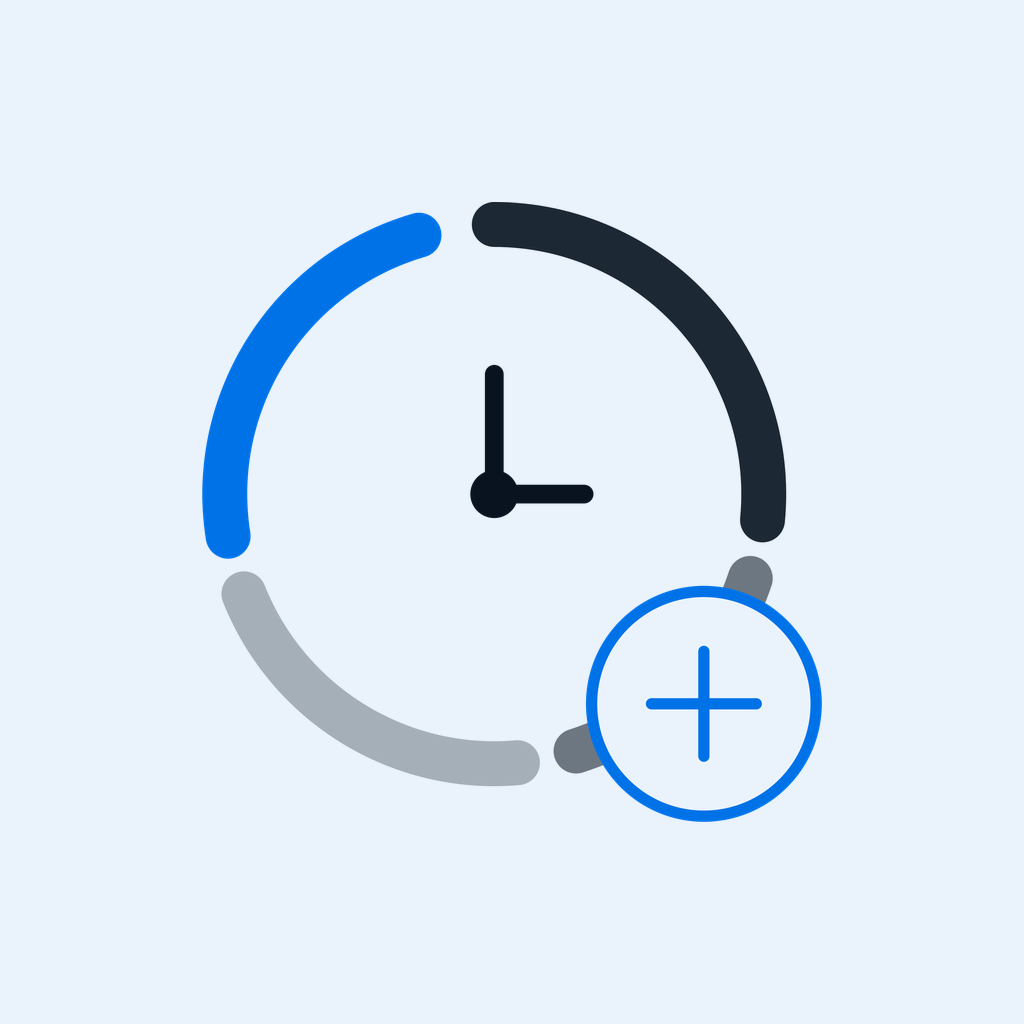
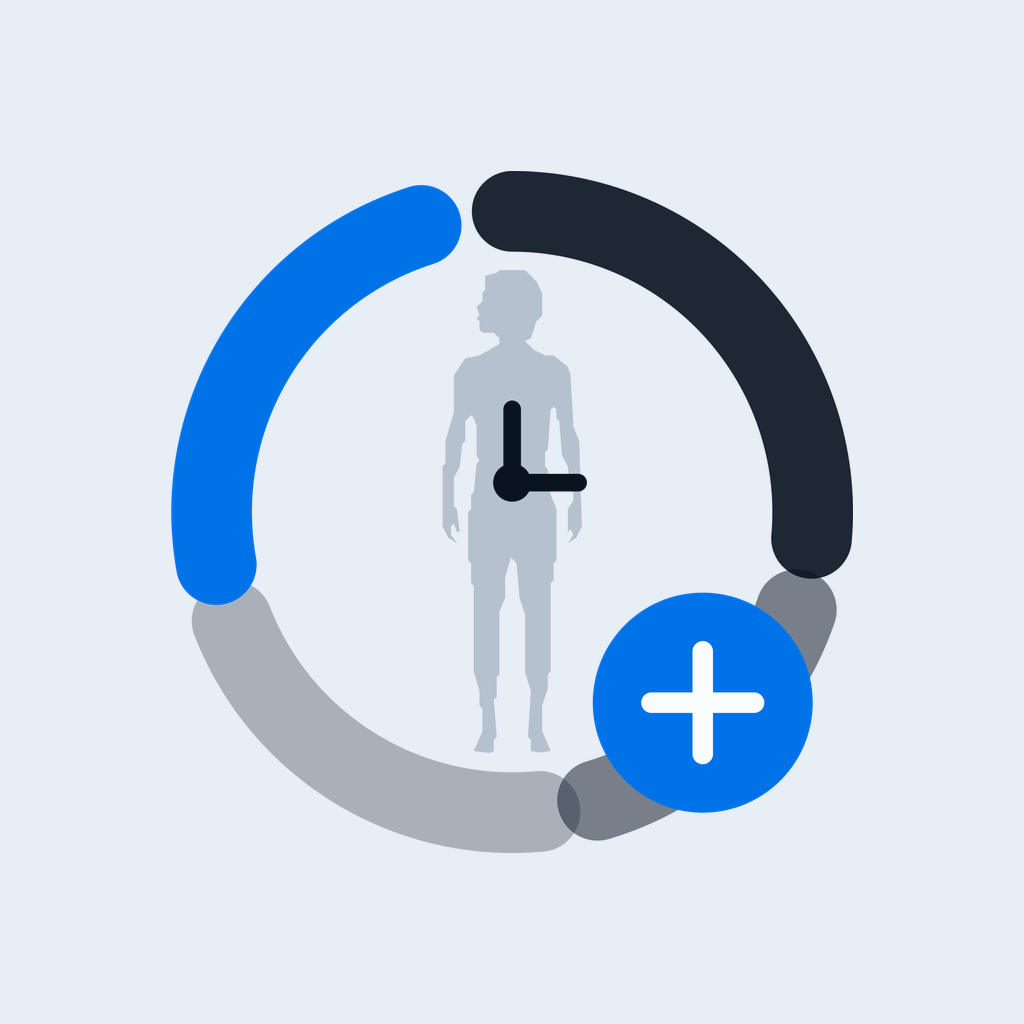
temp

Changed region(s): [[0.1562, 0.1562, 0.8438, 0.8438]]

diff --git a/design/make-harmony-icons.py b/design/make-harmony-icons.py
@@ -32,37 +32,74 @@ from PIL import Image
 
 # --- the mark, on a 96-unit canvas (four-segment variant, per design/logo.md) ---
 CX = CY = 48.0
-RING_R = 36.0
-RING_STROKE = 6.0
+RING_R = 41.0
+RING_STROKE = 11.0
 INK = "#08131F"
 ACCENT = "#0072E8"
-GROUND = "#EAF3FB"
+# the design's rounded tile, which here becomes the layered icon's background
+# layer; nothing inside the mark is filled with it, so the foreground is correct
+# over any ground
+GROUND = "#E7EEF6"
+# the plus, on the accent disc -- a shade lighter than the tile
+PLUS_GLYPH = "#FAFDFF"
+FIGURE = "#4E6478"
+FIGURE_OPACITY = 0.32
 
 # (visible arc length, dash offset, opacity) as the design declares them;
 # the last segment is the current state and carries the accent color
 SEGMENTS = [
-    (60, 0, INK, 0.9),
-    (34, 68, INK, 0.55),
-    (46, 110, INK, 0.3),
-    (52, 164, ACCENT, 1.0),
+    (68, 0, INK, 0.9),
+    (39, 78, INK, 0.5),
+    (53, 125, INK, 0.28),
+    (59, 186, ACCENT, 1.0),
 ]
+
+# The standing figure, drawn in a 58 x 200 box of its own and placed inside the
+# ring by the transform below. It is a shadow layer: one flat neutral at low
+# opacity, so it never competes with the arcs.
+FIGURE_BOX = "translate(38.5 15) scale(0.33)"
+FIGURE_PATH = (
+    "M23.5 0.0L34.1 0.0L38.8 4.7L41.2 9.4L41.2 18.8L38.8 21.2L36.5 28.2L34.1 29.4"
+    "L37.6 32.9L42.4 35.3L45.9 35.3L51.8 40.0L52.9 43.5L54.1 64.7L56.5 70.6"
+    "L57.6 105.9L55.3 110.6L51.8 112.9L54.1 109.4L52.9 107.1L51.8 108.2L51.8 98.8"
+    "L54.1 95.3L54.1 91.8L52.9 90.6L51.8 81.2L49.4 76.5L48.2 62.4L47.1 61.2"
+    "L47.1 57.6L45.9 56.5L44.7 57.6L43.5 74.1L42.4 75.3L42.4 81.2L43.5 82.4"
+    "L44.7 92.9L47.1 98.8L47.1 120.0L45.9 121.2L45.9 128.2L44.7 129.4L44.7 165.9"
+    "L43.5 167.1L43.5 172.9L41.2 180.0L41.2 190.6L44.7 198.8L43.5 200.0L36.5 198.8"
+    "L36.5 194.1L35.3 192.9L36.5 174.1L34.1 165.9L34.1 142.4L31.8 135.3L30.6 121.2"
+    "L28.2 118.8L25.9 127.1L25.9 135.3L23.5 141.2L23.5 167.1L22.4 168.2L22.4 176.5"
+    "L21.2 177.6L22.4 192.9L21.2 194.1L21.2 198.8L18.8 200.0L14.1 200.0L12.9 198.8"
+    "L16.5 190.6L16.5 181.2L15.3 180.0L15.3 174.1L12.9 165.9L12.9 130.6L11.8 129.4"
+    "L11.8 121.2L10.6 120.0L10.6 100.0L11.8 98.8L11.8 92.9L12.9 91.8L14.1 80.0"
+    "L15.3 78.8L14.1 76.5L14.1 64.7L12.9 61.2L11.8 60.0L9.4 62.4L9.4 70.6L8.2 71.8"
+    "L7.1 81.2L4.7 85.9L4.7 97.6L5.9 98.8L7.1 108.2L5.9 108.2L4.7 104.7L3.5 105.9"
+    "L3.5 109.4L5.9 112.9L2.4 110.6L0.0 105.9L0.0 81.2L1.2 80.0L1.2 70.6L4.7 58.8"
+    "L4.7 43.5L9.4 36.5L15.3 35.3L23.5 30.6L23.5 28.2L21.2 25.9L16.5 25.9L15.3 24.7"
+    "L15.3 21.2L14.1 20.0L15.3 18.8L14.1 15.3L16.5 12.9L16.5 9.4L17.6 8.2L17.6 2.4"
+    "L22.4 1.2Z"
+)
 
 # --- output geometry ---
 CANVAS = 1024
 RENDER = 2048
 
-# Content size on the canvas. The app's original foreground.png used 547, which
-# put the mark's farthest pixel at 342px from center -- exactly the 341px radius
-# of the conventional two-thirds circular safe zone. That is the strictest mask
-# any launcher applies, and sizing to it left the icon reading small.
+# Content size on the canvas. The mark's bounding box is exactly the ring's, so
+# this number is the ring's outer diameter: at 682 the ring lands precisely on
+# the 341px radius of the conventional two-thirds circular safe zone -- the
+# strictest mask any launcher applies. That is the largest ring that survives
+# every mask intact.
 #
-# 620 lets the plus badge cross that circle while the ring itself stays well
-# inside it. HarmonyOS launchers mask with a squircle, which is far more
-# generous at 45 degrees -- exactly where the badge sits -- so nothing is lost
-# there; against a strict circular mask the badge's outer edge would be shaved,
-# which costs much less than clipping the ring. Past roughly 740 the ring itself
-# breaks out and there is no mask that saves it.
-CONTENT = 620
+# The plus badge sits at 45 degrees and reaches farther from center than the
+# ring does, so it crosses that circle -- 380px against 341. HarmonyOS masks
+# with a squircle, which is far more generous at 45 degrees, so nothing is lost
+# there, and a strict circular mask would shave the badge's outer edge rather
+# than cut the ring.
+#
+# The design instead draws the ring pressing against the edges of its own
+# rounded tile, which on a 1024 canvas is 992 of content. That was tried on a
+# device and rolled back: the icon sits at the safe zone by choice, and the
+# margin the safe zone leaves is visible as a plate around the mark.
+CONTENT = 682
 
 
 def build_svg():
@@ -90,15 +127,23 @@ def build_svg():
     return (
         f'<svg xmlns="http://www.w3.org/2000/svg" width="{RENDER}"'
         f' height="{RENDER}" viewBox="0 0 96 96" fill="none">\n'
+        # the figure, behind everything, clipped to the ring's inner circle
+        '  <clipPath id="inner"><circle cx="48" cy="48" r="33"/></clipPath>\n'
+        f'  <g opacity="{FIGURE_OPACITY}" fill="{FIGURE}" clip-path="url(#inner)">\n'
+        f'    <path transform="{FIGURE_BOX}" d="{FIGURE_PATH}"/>\n'
+        "  </g>\n"
         + "\n".join(paths)
-        # hands, and the hub that makes them read as a clock rather than a corner
-        + f'\n  <path d="M48 48V32M48 48h12" stroke="{INK}" stroke-width="2.5"'
+        # hands, and the hub that makes them read as a clock rather than a
+        # corner. The axis sits above center so they cross the figure's chest
+        # rather than its face.
+        + f'\n  <path d="M48 44V34M48 44h9" stroke="{INK}" stroke-width="2.4"'
         ' stroke-linecap="round"/>\n'
-        f'  <circle cx="48" cy="48" r="3.2" fill="{INK}"/>\n'
-        # the plus badge, ground-filled so it punches a hole in the ring
-        f'  <circle cx="76" cy="76" r="15" fill="{GROUND}" stroke="{ACCENT}"'
-        ' stroke-width="1.5"/>\n'
-        f'  <path d="M76 69v14M69 76h14" stroke="{ACCENT}" stroke-width="1.5"'
+        f'  <circle cx="48" cy="44" r="2.6" fill="{INK}"/>\n'
+        # the plus badge: a solid accent disc laid straight over the ring, with
+        # no washer under it -- at this weight the disc reads cleanly against
+        # the arc it covers
+        f'  <circle cx="74" cy="74" r="15" fill="{ACCENT}"/>\n'
+        f'  <path d="M74 67v14M67 74h14" stroke="{PLUS_GLYPH}" stroke-width="2.8"'
         ' stroke-linecap="round"/>\n</svg>\n'
     )
 

diff --git a/design/logo.md b/design/logo.md
@@ -1,126 +1,171 @@
 # Logo
 
-Source: Claude Design project "YoAI", round 16. Option `16c` is final; `13c` is
-the horizontal wordmark that goes with it.
+Source: Claude Design project, round 16. Option `16d` is final; `13c` is the
+horizontal wordmark that goes with it.
 
 ## The mark
 
-A **segmented ring** — the day, cut into arcs, one arc per state, the current
-state's arc in the accent color. Clock hands in the middle. A blue plus at the
-lower right, meaning "record one".
+A **segmented ring** around a **standing figure** — the day, cut into arcs, one
+arc per state, the current state's arc in the accent color; the figure is whose
+day it is. Clock hands sit over the figure's chest. A blue plus at the lower
+right means "record one". The whole thing sits on a rounded tile of its own.
 
-Three decisions worth keeping:
+Four decisions worth keeping:
 
 - **The ring is many arcs, never one.** A single arc with a gap reads as a power
   button. Multiple segments read as a clock face.
 - **Full circle plus visible hands = a clock.** That is what stops the mark
   being read as a toggle.
-- **The mark carries no text.** The wordmark is the letters `YoAI`, set
+- **The figure is a shadow layer.** One flat neutral at low opacity, no outline,
+  no features. It gives the ring something to be about without competing with
+  it — at small sizes it drops out entirely (see below) and the mark still
+  works.
+- **The mark carries no text.** The wordmark is the words `Body Clock`, set
   separately. One asset set serves all eleven languages.
 
 ## Geometry
 
-Everything derives from the ring radius `r`, so the mark can be redrawn at any
-size:
+On a 96-unit canvas, with the ring radius `r = 41`:
 
 | Element | Rule |
 |---|---|
-| Plus center | `cx + 0.78r`, `cy + 0.78r` (each axis — i.e. out along 45°) |
-| Plus radius | `0.42r` |
-
-This holds in both sizes the design ships: at `viewBox="0 0 96 96"` with `r=36`
-the plus lands at `(76, 76)` with radius `15`; at `viewBox="0 0 48 48"` with
-`r=16` it lands at `(33.5, 33.5)` with radius `6.7`.
+| Tile | full canvas, corner radius 22 |
+| Ring | `r = 41`, stroke 11, round caps |
+| Figure | clipped to a circle of `r = 33` about the center — head clear of the top arc, feet on the circle's lower edge |
+| Hand axis | `(48, 44)` — above center, so the hands cross the chest and not the face |
+| Plus center | `cx + 0.63r`, `cy + 0.63r` (each axis — i.e. out along 45°) |
+| Plus disc | `0.37r`, solid accent, laid straight over the ring |
 
 The ring is drawn with four `<circle>` elements sharing a center, each with a
 `stroke-dasharray`/`stroke-dashoffset` pair cutting one arc, all inside
 `transform="rotate(-90 cx cy)"` so the first segment starts at twelve o'clock.
-Caps are round.
 
-**At small sizes drop to three segments.** Four arcs plus their gaps stop
-resolving below roughly 40px. This is for thumbnails and other small
-renderings — the icon assets stay on four segments whatever size the launcher
-happens to draw them at.
+The ring's bounding box is the mark's bounding box: the four segments between
+them cover twelve, three, six and nine o'clock, so the mark is square and
+centered on the ring. The plus badge reaches farther from the center than the
+ring does — it, not the ring, is what a round mask clips first.
+
+**At small sizes drop to three segments and lose the figure.** Four arcs plus
+their gaps stop resolving below roughly 40px, and the figure turns to mush well
+before that. The icon assets stay on the four-segment mark whatever size the
+launcher happens to draw them at.
 
 ## The two variants
 
 Drawn in the default theme's colors — `daylight-arctic` and `midnight-arctic`
-from [palettes.json](palettes.json):
+from [palettes.json](palettes.json), except the tile, which is the design's own
+app-icon ground:
 
 | | Light | Dark |
 |---|---|---|
+| Tile | `#E7EEF6` | `#16233A` |
 | Ring, hands | `#08131F` | `#EAF3FB` |
-| Current segment, plus | `#0072E8` | `#4FB2FF` |
-| Ground | `#FAFDFF` | `#0B1622` |
+| Current segment, plus disc | `#0072E8` | `#4FB2FF` |
+| Figure | `#4E6478` at 32% | `#7C92A8` at 36% |
+| Plus glyph | `#FAFDFF` | `#0B1622` |
+| Page ground around the mark | `#FAFDFF` | `#0B1622` |
 
-The plus has two treatments. **Outlined** — 1.5px stroke, ground-colored fill,
-so it punches a hole in the ring — is the default, and it is what the icon
-assets use. **Filled** — a solid accent disc with a ground-colored plus — goes
-with the three-segment reduction below, where a thin outline would not hold.
+The plus has two treatments. **Filled** — a solid accent disc with a light plus
+on it, laid straight over the ring with nothing under it — is the default, and
+it is what the icon assets use. At this weight the disc reads cleanly against
+the arc it covers, so it needs no ground-colored washer to separate the two.
+**Outlined** — 1.5px stroke, ground-colored fill — is what the smaller wordmark
+ring uses, where a filled disc would swallow too much of the ring.
 
 ## The drawing (96 × 96)
 
-Four segments — the icon assets and every normal use:
+Four segments — the icon assets and every normal use. The figure's own path is
+long and is not repeated here; take it from
+[make-harmony-icons.py](make-harmony-icons.py), which holds the one copy.
 
 ```svg
 <svg width="96" height="96" viewBox="0 0 96 96" fill="none">
-  <g transform="rotate(-90 48 48)" fill="none" stroke-linecap="round" stroke-width="6">
-    <circle cx="48" cy="48" r="36" stroke="#08131F" stroke-dasharray="60 166" opacity=".9"/>
-    <circle cx="48" cy="48" r="36" stroke="#08131F" stroke-dasharray="34 192" stroke-dashoffset="-68" opacity=".55"/>
-    <circle cx="48" cy="48" r="36" stroke="#08131F" stroke-dasharray="46 180" stroke-dashoffset="-110" opacity=".3"/>
-    <circle cx="48" cy="48" r="36" stroke="#0072E8" stroke-dasharray="52 174" stroke-dashoffset="-164"/>
+  <rect width="96" height="96" rx="22" fill="#E7EEF6"/>
+  <defs><clipPath id="inner"><circle cx="48" cy="48" r="33"/></clipPath></defs>
+  <g opacity=".32" fill="#4E6478" clip-path="url(#inner)">
+    <path transform="translate(38.5 15) scale(0.33)" d="M23.5 0.0L34.1 0.0 … Z"/>
   </g>
-  <path d="M48 48V32M48 48h12" stroke="#08131F" stroke-width="2.5" stroke-linecap="round"/>
-  <circle cx="48" cy="48" r="3.2" fill="#08131F"/>
-  <circle cx="76" cy="76" r="15" fill="#FAFDFF" stroke="#0072E8" stroke-width="1.5"/>
-  <path d="M76 69v14M69 76h14" stroke="#0072E8" stroke-width="1.5" stroke-linecap="round"/>
+  <g transform="rotate(-90 48 48)" fill="none" stroke-linecap="round" stroke-width="11">
+    <circle cx="48" cy="48" r="41" stroke="#08131F" stroke-dasharray="68 190" opacity=".9"/>
+    <circle cx="48" cy="48" r="41" stroke="#08131F" stroke-dasharray="39 219" stroke-dashoffset="-78" opacity=".5"/>
+    <circle cx="48" cy="48" r="41" stroke="#08131F" stroke-dasharray="53 205" stroke-dashoffset="-125" opacity=".28"/>
+    <circle cx="48" cy="48" r="41" stroke="#0072E8" stroke-dasharray="59 199" stroke-dashoffset="-186"/>
+  </g>
+  <path d="M48 44V34M48 44h9" stroke="#08131F" stroke-width="2.4" stroke-linecap="round"/>
+  <circle cx="48" cy="44" r="2.6" fill="#08131F"/>
+  <circle cx="74" cy="74" r="15" fill="#0072E8"/>
+  <path d="M74 67v14M67 74h14" stroke="#FAFDFF" stroke-width="2.8" stroke-linecap="round"/>
 </svg>
 ```
 
-Dark: swap `#08131F` → `#EAF3FB`, `#0072E8` → `#4FB2FF`, `#FAFDFF` → `#0B1622`.
+Dark: swap `#E7EEF6` → `#16233A`, `#08131F` → `#EAF3FB`, `#0072E8` → `#4FB2FF`,
+`#4E6478`/.32 → `#7C92A8`/.36, and the plus glyph `#FAFDFF` → `#0B1622`. The two
+dimmed segments also drop a step — .5/.28 becomes .45/.26 — because light ink on
+a dark ground carries further than the reverse.
 
-Three-segment version for small sizes, with the filled plus:
+Three-segment version for small sizes — no figure, hands back on center and
+longer, ring opened up to `r=38` with stroke 18, and everything else scaled up
+to match:
 
 ```svg
 <svg width="96" height="96" viewBox="0 0 96 96" fill="none">
-  <g transform="rotate(-90 48 48)" fill="none" stroke-linecap="round" stroke-width="13">
-    <circle cx="48" cy="48" r="33" stroke="#08131F" stroke-dasharray="55 152" opacity=".9"/>
-    <circle cx="48" cy="48" r="33" stroke="#08131F" stroke-dasharray="40 167" stroke-dashoffset="-66" opacity=".45"/>
-    <circle cx="48" cy="48" r="33" stroke="#0072E8" stroke-dasharray="60 147" stroke-dashoffset="-120"/>
+  <rect width="96" height="96" rx="22" fill="#E7EEF6"/>
+  <g transform="rotate(-90 48 48)" fill="none" stroke-linecap="round" stroke-width="18">
+    <circle cx="48" cy="48" r="38" stroke="#08131F" stroke-dasharray="63 176" opacity=".9"/>
+    <circle cx="48" cy="48" r="38" stroke="#08131F" stroke-dasharray="45 194" stroke-dashoffset="-76" opacity=".45"/>
+    <circle cx="48" cy="48" r="38" stroke="#0072E8" stroke-dasharray="70 169" stroke-dashoffset="-138"/>
   </g>
-  <path d="M48 48V33M48 48h11" stroke="#08131F" stroke-width="6" stroke-linecap="round"/>
-  <circle cx="74" cy="74" r="14" fill="#0072E8"/>
-  <path d="M74 67v14M67 74h14" stroke="#FAFDFF" stroke-width="6" stroke-linecap="round"/>
+  <path d="M48 48V31M48 48h12" stroke="#08131F" stroke-width="5.5" stroke-linecap="round"/>
+  <circle cx="48" cy="48" r="3.4" fill="#08131F"/>
+  <circle cx="74" cy="74" r="17" fill="#0072E8"/>
+  <path d="M74 66.5v15M66.5 74h15" stroke="#FAFDFF" stroke-width="4" stroke-linecap="round"/>
 </svg>
 ```
 
 ## Horizontal wordmark (`13c`)
 
-For the website and the tablet sidebar: `Y` + the ring as the `o` + `AI`. The
-letters are 600 weight, `letter-spacing: -0.04em`, in the UI font. Minimum
-height 18px. The ring here is the 48-viewBox drawing above.
+For the website and the tablet sidebar: `B` + the ring as the `o` + `dy Clock`.
+The letters are 600 weight, `letter-spacing: -0.03em`, in the UI font. Minimum
+height 18px.
 
-The app-icon slot always uses the `16c` mark, never the wordmark.
+The ring here is a smaller, older drawing — `viewBox="0 0 48 48"`, `r = 16`,
+stroke 3, no figure and no tile, with the **outlined** plus at the original
+`0.78r` / `0.42r` proportion, so it lands at `(33.5, 33.5)` with radius `6.7`.
+That proportion is the wordmark's alone; the icon mark above is on `0.63r` /
+`0.37r`. Do not "unify" them by moving one — they were fitted to different ring
+weights.
+
+The app-icon slot always uses the `16d` mark, never the wordmark.
 
 ## The HarmonyOS assets
 
 [make-harmony-icons.py](make-harmony-icons.py) regenerates all four from the
 four-segment mark: `app_icon.png`, the layered icon's `foreground.png` and
-`background.png`, and `startIcon.png`. Content is 620px on a 1024 canvas.
+`background.png`, and `startIcon.png`. Content is 682px on a 1024 canvas.
 
-That size is a deliberate trade. The mark's plus badge sits at 45°, and its
-outer edge reaches farther from center than the ring does — so it, not the ring,
-is what a launcher mask clips first. The app's original icons used 547px, which
-put the farthest pixel exactly on the 341px radius of the conventional
-two-thirds circular safe zone, and read small as a result. At 620px the ring
-stays well inside that circle and only the badge crosses it; HarmonyOS masks
-with a squircle, which is much more generous at 45°, so nothing is actually lost
-there. Past roughly 740px the ring itself breaks out and no mask shape saves it.
+The design draws the ring pressing against the edges of its own rounded tile.
+The tile's edge and a launcher mask's edge are not the same thing, so the assets
+press against the mask instead: since the mark's bounding box is exactly the
+ring's, 682px of content puts the ring's outer edge precisely on the 341px
+radius of the conventional two-thirds circular safe zone — the strictest mask
+any launcher applies. That is the largest ring that survives every mask intact.
 
-The ground there is `#EAF3FB`, not the `#FAFDFF` in the table above: `#FAFDFF`
-is the page ground the mark sits on inside the product, while `#EAF3FB` is what
-the design's own app-icon tile uses. The plus is filled with the same `#EAF3FB`
-so it still punches a hole.
+The plus badge then crosses that circle, at 380px against 341. HarmonyOS masks
+with a squircle, which is much more generous at 45° — exactly where the badge
+sits — so nothing is actually lost there, and against a strict circular mask the
+badge's outer edge would be shaved, which costs far less than clipping the ring.
+
+The cost of staying inside the safe zone is that its margin is visible: on a
+device the mark reads as sitting on a near-white plate rather than filling the
+icon. Reproducing the design 1:1 instead — 992px of content, ring 16px from the
+canvas edge — removes that, and the ring still clears both a squircle and a
+circle inscribed in the canvas, since it is concentric with either. That was
+tried and rolled back. The assets stay at 682.
+
+In the layered icon the tile becomes `background.png`, a flat `#E7EEF6`, and the
+mark becomes `foreground.png`. Nothing in the mark is filled with the tile
+color, so the two layers do not have to agree on anything and the foreground
+stays correct over any background.
 
 `startIcon.png` carries its own ground rather than being transparent over
 `$color:start_window_background` — that color is `#101315` in the dark theme,
